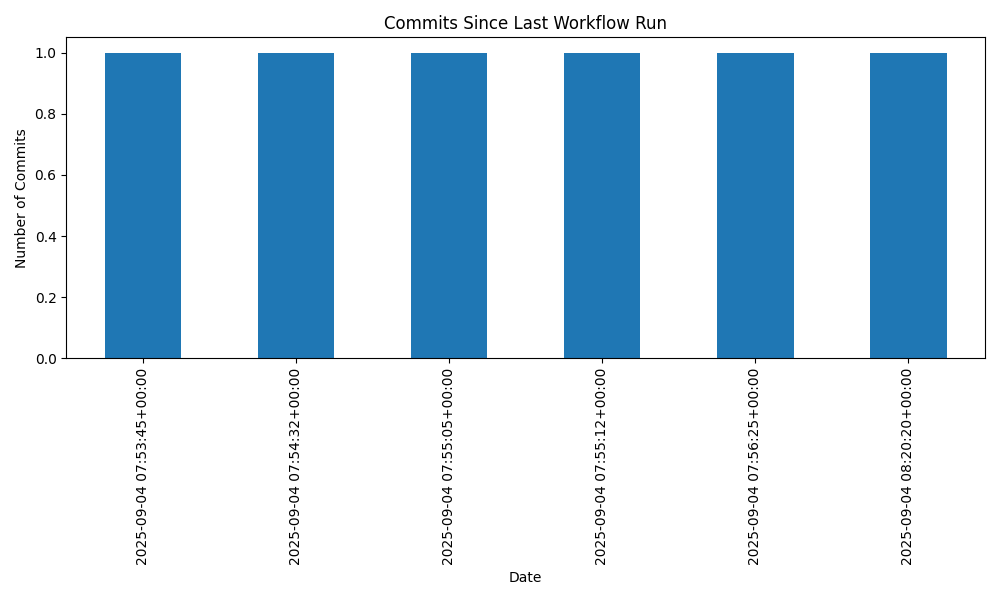
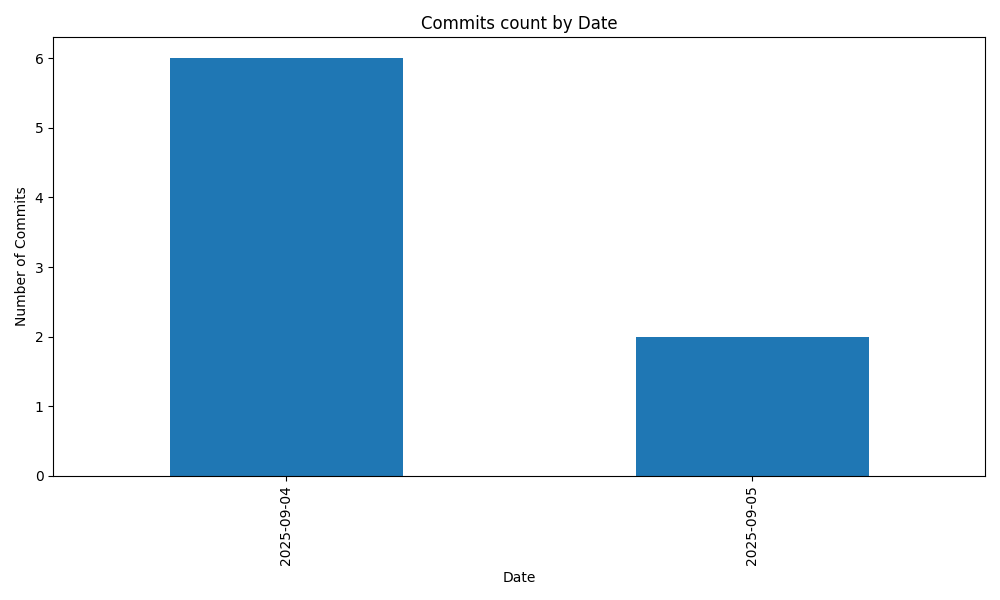
update

diff --git a/.github/scripts/commit-graph.py b/.github/scripts/commit-graph.py
@@ -3,6 +3,8 @@ import matplotlib.pyplot as plt
 
 df = pd.read_csv('.github/data/commit.csv', parse_dates=['Date'])
 
+df['Date'] = df['Date'].dt.date
+
 plt.figure(figsize=(10, 6))
 df['Date'].value_counts().sort_index().plot(kind='bar')
 plt.xlabel('Date')
@@ -10,4 +12,3 @@ plt.ylabel('Number of Commits')
 plt.title('Commits count by Date')
 plt.tight_layout()
 plt.savefig('.github/data/commit_graph.png')
-plt.show()
